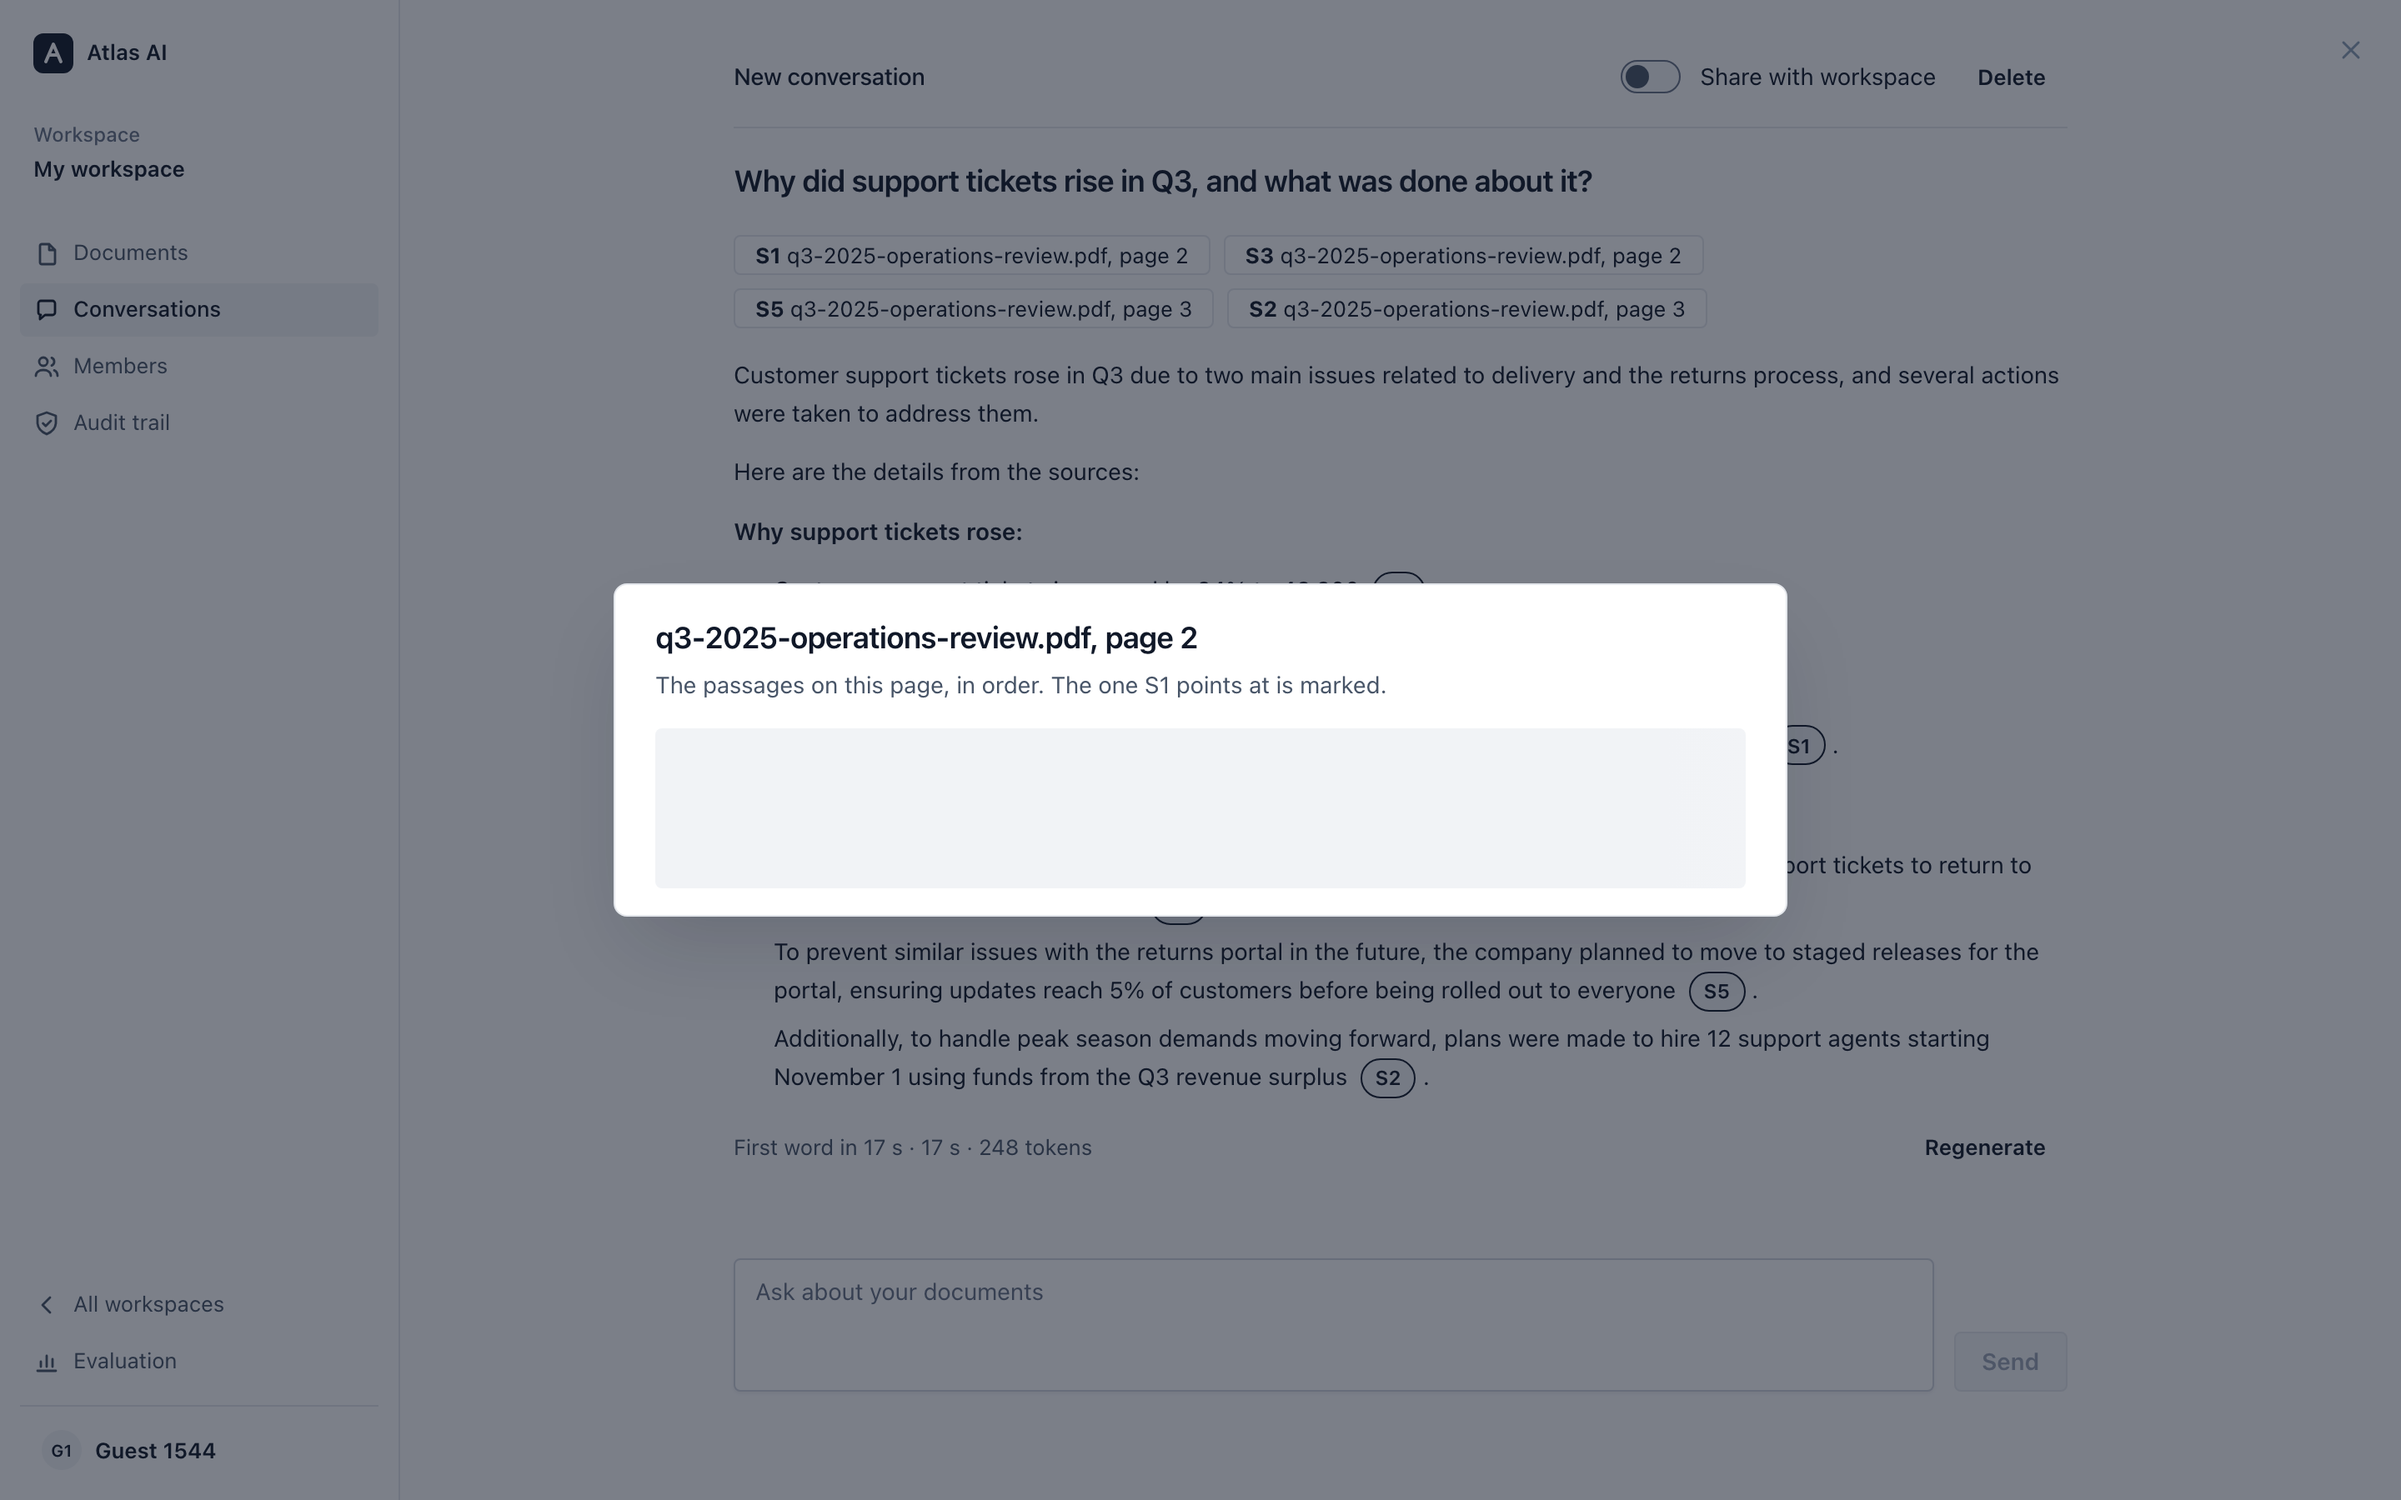
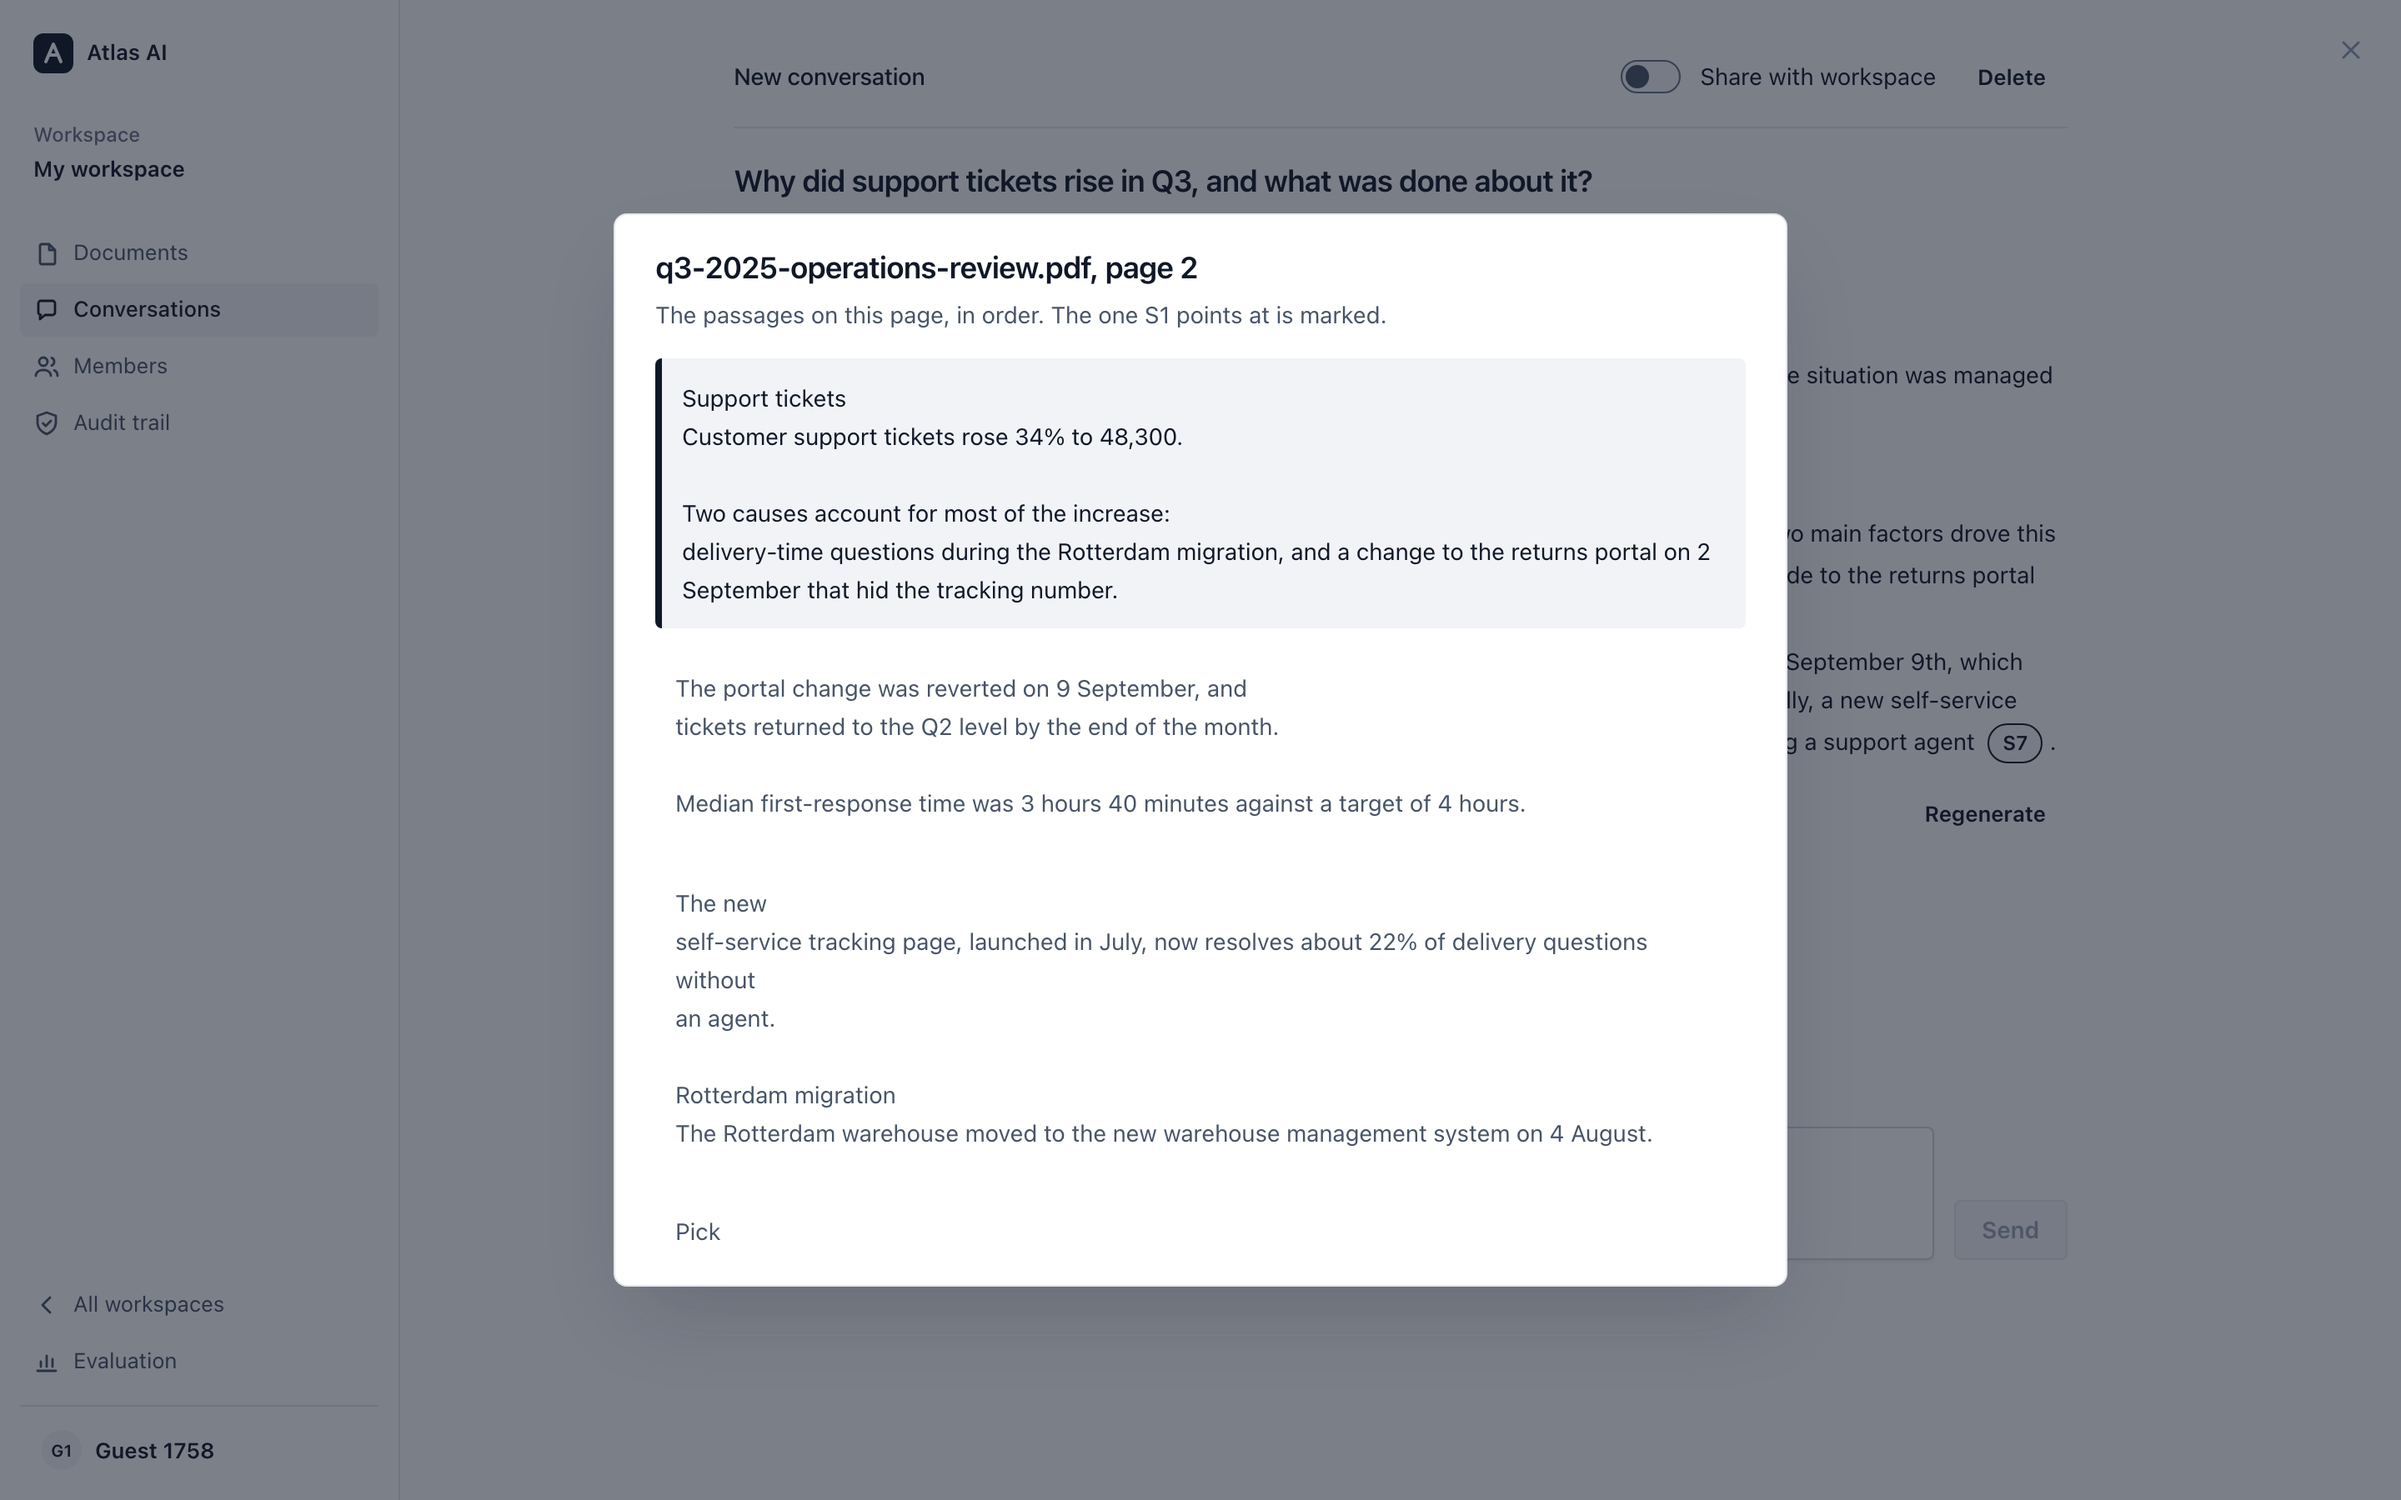
fix: rebuild paragraphs from PDF lines, so passages read as written and not as the page wrapped them

diff --git a/packages/core/src/parse.ts b/packages/core/src/parse.ts
@@ -41,6 +41,52 @@ function parseText(bytes: Uint8Array): Page[] {
   return text.split('\f').map((part, i) => ({ page: i + 1, text: part }));
 }
 
+interface PdfText {
+  str?: string;
+  hasEOL?: boolean;
+  transform?: number[];
+  height?: number;
+}
+
+// A PDF stores text as lines placed on the page, not as paragraphs: a sentence that wraps is two lines, and nothing
+// says they belong together. Lines are joined back into paragraphs here, and a paragraph ends where the gap down to
+// the next line is clearly larger than a line's own height, which is how a heading or a blank line looks on the page.
+export function paragraphs(items: PdfText[]): string {
+  const lines: { text: string; y: number; size: number }[] = [];
+  let text = '';
+  let y: number | undefined;
+  let size = 0;
+  for (const item of items) {
+    if (item.str === undefined) continue;
+    if (item.str !== '' && y === undefined) {
+      y = item.transform?.[5] ?? 0;
+      size = item.height ?? 0;
+    }
+    text += item.str;
+    if (item.hasEOL) {
+      if (text.trim() !== '' && y !== undefined) lines.push({ text: text.trim(), y, size });
+      text = '';
+      y = undefined;
+    } else if (!text.endsWith(' ')) {
+      text += ' ';
+    }
+  }
+  if (text.trim() !== '' && y !== undefined) lines.push({ text: text.trim(), y, size });
+
+  let out = lines[0]?.text ?? '';
+  for (let i = 1; i < lines.length; i++) {
+    const before = lines[i - 1]!;
+    const line = lines[i]!;
+    const height = Math.max(before.size, line.size) || 12;
+    const gap = before.y - line.y;
+    // further down than a line and a half, back up the page (a new column), or a change of type size (a heading
+    // and the text under it): a new paragraph
+    const resized = Math.abs(before.size - line.size) > Math.min(before.size, line.size) * 0.15;
+    out += gap > height * 1.6 || gap < 0 || resized ? `\n\n${line.text}` : ` ${line.text}`;
+  }
+  return out;
+}
+
 async function parsePdf(bytes: Uint8Array): Promise<Page[]> {
   // pdf.js 6 releases a document through its loading task, not the document
   const task = getDocument({
@@ -66,10 +112,7 @@ async function parsePdf(bytes: Uint8Array): Promise<Page[]> {
     for (let number = 1; number <= pdf.numPages; number++) {
       const page = await pdf.getPage(number);
       const content = await page.getTextContent();
-      const text = content.items
-        .map((item) => ('str' in item ? item.str + (item.hasEOL ? '\n' : ' ') : ''))
-        .join('');
-      pages.push({ page: number, text });
+      pages.push({ page: number, text: paragraphs(content.items as PdfText[]) });
       page.cleanup();
     }
     return pages;

diff --git a/packages/core/src/parse.test.ts b/packages/core/src/parse.test.ts
@@ -39,9 +39,14 @@ describe('parseDocument: PDF', () => {
     expect(pages[0]?.text).not.toContain('Costs');
   });
 
-  it('keeps line breaks, so paragraphs can still be found', async () => {
-    const [page] = await parseDocument('pdf', makePdf([['First line', 'Second line']]));
-    expect(page?.text).toMatch(/First line\s*\n\s*Second line/);
+  it('joins lines that wrap into one paragraph, and keeps paragraphs apart', async () => {
+    const [page] = await parseDocument(
+      'pdf',
+      makePdf([['The new tracking page', 'resolves most questions.', '', 'Support tickets fell.']]),
+    );
+    expect(page?.text).toBe(
+      'The new tracking page resolves most questions.\n\nSupport tickets fell.',
+    );
   });
 
   it('handles text with parentheses and backslashes', async () => {
